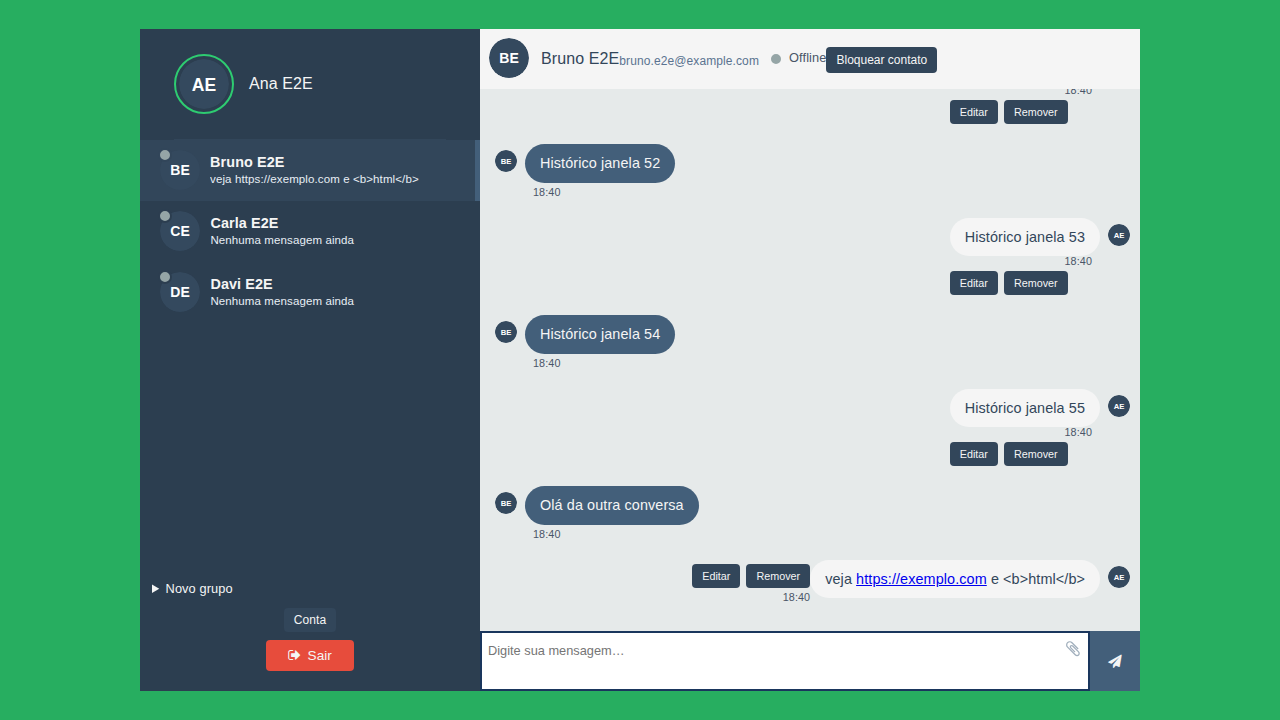
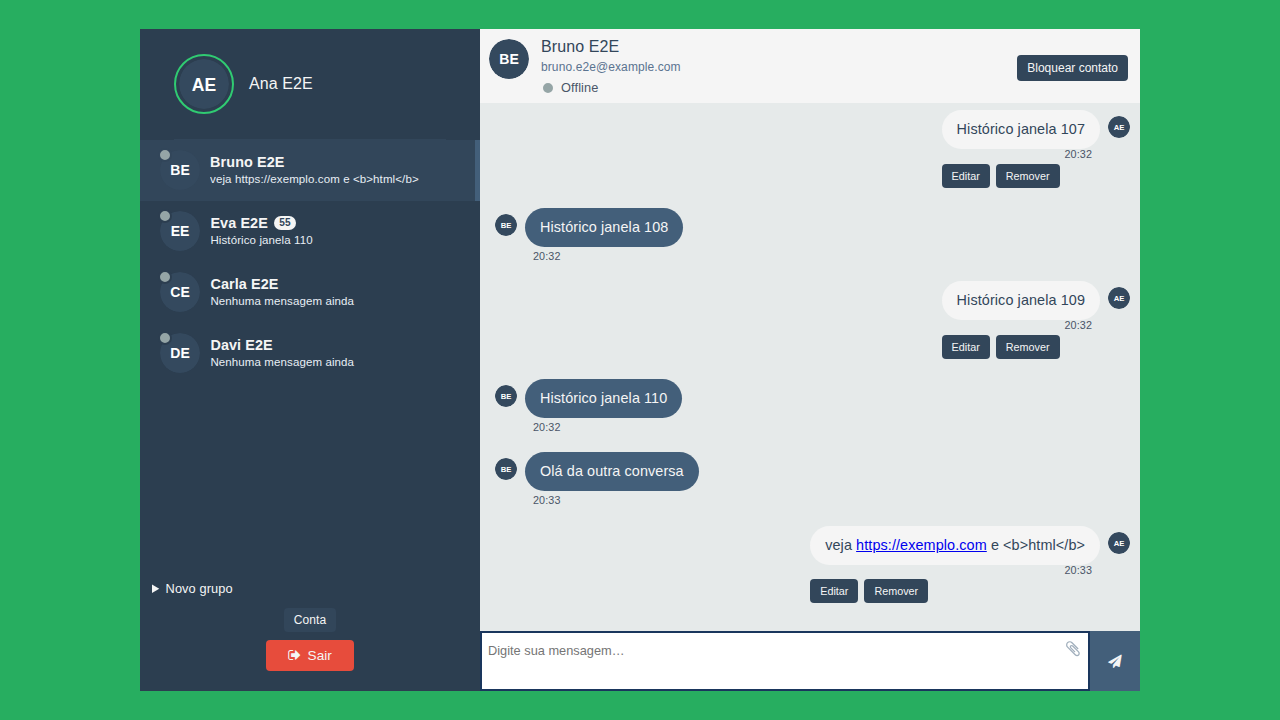
[Docs] Atualiza documentação e capturas do chat
- O README descreve a confirmação de remoção com e sem JavaScript e a paginação cronológica com o botão oculto.
- As capturas desta rodada incluem o histórico paginado, o layout das conversas e a página de confirmação de remoção.

diff --git a/README.md b/README.md
@@ -6,7 +6,7 @@ Aplicação Laravel de chat em tempo real. Há autenticação, conversas individ
 
 ### Nível 1
 
-- **N1-01 — Lista pela última atividade.** Cada item mostra nome e prévia da última mensagem (incluindo “Mensagem removida” e “Imagem”). O e-mail permanece no cabeçalho da conversa individual. A ordenação usa a data de **envio** (`created_at`), com desempate estável por ID; editar uma mensagem antiga não a promove. Contatos sem mensagens continuam na lista. A consulta de prévias e não lidas é agregada, sem N+1 por contato.
+- **N1-01 — Lista pela última atividade.** Cada item mostra nome e prévia da última mensagem (incluindo “Mensagem removida” e “Imagem”). O e-mail permanece no cabeçalho da conversa individual, em linha própria abaixo do nome. A ordenação usa a data de **envio** (`created_at`), com desempate estável por ID; editar uma mensagem antiga não a promove. Contatos sem mensagens continuam na lista. A consulta de prévias e não lidas é agregada, sem N+1 por contato.
 - **N1-02 — Atividade fora da conversa aberta.** Eventos no canal privado do usuário atualizam prévia e posição da lista mesmo com outra conversa aberta, inclusive envios próprios de outra aba. A conversa selecionada, o foco, o rascunho e o histórico atual são preservados. Mensagens recebidas são anunciadas uma vez. Após reconexão, a lista reconcilia por HTTP.
 - **N1-03 — Compositor multilinha.** `textarea` com altura limitada e rolagem. No desktop, Enter envia e Shift+Enter quebra linha. No teclado virtual (breakpoint 735px ou ponteiro grosso), Enter não envia — o envio é pelo botão. Composição IME não dispara envio. Limite de 1000 caracteres, rascunhos e preservação do texto em erro. Sem JavaScript, o POST/redirect pelo botão continua válido.
 - **N1-04 — URLs clicáveis.** Só `http://` e `https://` viram links (`target="_blank"` e `rel="noopener noreferrer"`). O restante do texto e os atributos são escapados. O mesmo critério vale no HTML inicial, no carregamento de mensagens anteriores e nos eventos ao vivo.
@@ -15,8 +15,8 @@ Aplicação Laravel de chat em tempo real. Há autenticação, conversas individ
 
 - **N2-01 — Não lidas persistidas.** Badge numérico por usuário e conversa. Contam só mensagens recebidas e não removidas. A leitura é um `POST /leituras` autenticado até o último ID apresentado, com aba visível; `GET` não altera o marcador. O marcador é monotônico. Vale para individuais e grupos.
 - **N2-02 — Indicador de digitação.** O backend publica quem está digitando, sem o rascunho. Frequência limitada (~2 s) e expiração (~3 s). O estado some ao enviar, trocar de conversa ou desconectar. **Não usamos whisper no canal individual:** esse canal só autoriza o próprio usuário. A digitação vai pelo mesmo canal privado de cada participante autorizado, mediada pelo servidor.
-- **N2-03 — Editar e remover mensagem própria.** Só o autor com acesso à conversa. Edição com limite de 1000 caracteres e indicação “Editada”. Remoção para todos, com registro e “Mensagem removida”. Mensagem removida não volta a ser editada. Autorização no servidor.
-- **N2-04 — Histórico em janelas.** Últimas 50 mensagens, ordem cronológica, “Carregar mensagens anteriores” com cursor estável. Reconciliação por `versao` da conversa/mensagem: recupera mensagens novas e também edições/exclusões. Evento antigo não substitui estado mais novo.
+- **N2-03 — Editar e remover mensagem própria.** Só o autor com acesso à conversa. Edição com limite de 1000 caracteres e indicação “Editada”. Remoção para todos. Com JavaScript, a confirmação nativa (“Esta mensagem será removida para os participantes da conversa.”) ocorre antes do `DELETE`. Sem JavaScript, o primeiro “Remover” abre uma página de confirmação (GET, sem alterar dados) que identifica a mensagem, explica a remoção para os participantes e oferece **Confirmar remoção** e **Cancelar**. Cancelar volta à conversa com a mensagem intacta. Confirmar envia o `DELETE` uma vez. Placeholder “Mensagem removida”. Mensagem removida não volta a ser editada. Autorização no servidor.
+- **N2-04 — Histórico em janelas.** Últimas 50 mensagens, ordem cronológica no servidor e no cliente (inclusive nos lotes anteriores). “Carregar mensagens anteriores” só aparece quando há página anterior; o atributo `hidden` é respeitado pelo CSS. Reconciliação por `versao` da conversa/mensagem: recupera mensagens novas e também edições/exclusões. Evento antigo não substitui estado mais novo.
 
 ### Nível 3
 
@@ -30,7 +30,7 @@ Aplicação Laravel de chat em tempo real. Há autenticação, conversas individ
 
 **Digitação.** Evento `participante.digitando` publicado pelo backend nos canais privados dos outros participantes autorizados. Isolamento do canal individual preservado. Não depende de client events do Pusher.
 
-**Exclusão.** Soft-delete (`removida_em`). A prévia e as não lidas tratam a mensagem como removida. O arquivo físico é apagado depois da confirmação no banco; falha de limpeza só é registrada em log.
+**Exclusão.** Soft-delete (`removida_em`). Com JavaScript, `confirm` nativo antes do `DELETE`. Sem JavaScript, GET `/mensagens/{id}/confirmacao-remocao` (autorizado, sem mutação) e o `DELETE` só no “Confirmar remoção”. A prévia e as não lidas tratam a mensagem como removida. O arquivo físico é apagado depois da confirmação no banco; falha de limpeza só é registrada em log.
 
 **Grupos.** Mesmo modelo de `conversas` (tipo `individual` ou `grupo`). Mensagens antigas 1:1 foram migradas para `conversa_id` sem trocar IDs, autoria, conteúdo nem datas. Eventos de grupo não usam um canal compartilhado cuja autorização vale só na assinatura: a lista de destinos é resolvida na hora do envio.
 
@@ -58,6 +58,8 @@ Dados fictícios da suíte e2e (Ana/Bruno/Carla/Davi).
 
 ![Editar e remover](docs/screenshots/editar-remover.png)
 
+![Confirmação de remoção sem JavaScript](docs/screenshots/confirmacao-remocao.png)
+
 ![Grupo](docs/screenshots/grupo.png)
 
 ![Anexo](docs/screenshots/anexo.png)
@@ -78,8 +80,8 @@ Dados fictícios da suíte e2e (Ana/Bruno/Carla/Davi).
 | N1-04 | `FormatadorMensagem` + JS equivalente | PHPUnit unitário e HTML; Playwright links | — |
 | N2-01 | `POST /leituras`, badge, monotônico, grupos | PHPUnit GET sem mutar + marcador monotônico; Playwright aba oculta simulada + aba visível | `document.visibilityState=hidden` é simulação no Chromium, não janela minimizada do SO |
 | N2-02 | `POST /digitacao` + evento backend | PHPUnit canais/bloqueio; Playwright indicador, expiração ~3 s, limpeza ao enviar e ao trocar | — |
-| N2-03 | PATCH/DELETE autorizados | PHPUnit autor/terceiro; Playwright editar/remover | — |
-| N2-04 | Janela 50 + `antes_id` + `versao` | PHPUnit 55 mensagens; Playwright carregar anteriores + reconciliação HTTP após disconnect (edição e exclusão sem reload) | — |
+| N2-03 | PATCH/DELETE autorizados; `confirm` no cliente; GET de confirmação sem JS | PHPUnit autor/terceiro/GET sem mutação; Playwright com e sem JS (cancelar e confirmar) | — |
+| N2-04 | Janela 50 + `antes_id` + ordem cronológica no cliente; botão `hidden` respeitado | PHPUnit 110 mensagens (dois lotes); Playwright sequência visível, dois lotes, botão oculto na home/vazio/fim | — |
 | N3-01 | Grupos; publicação só aos membros atuais | PHPUnit 3+1; Playwright membro já conectado não recebe a próxima mensagem; HTTP 4xx | — |
 | N3-02 | Disco privado + rota autenticada | PHPUnit válido/inválido/limite/terceiro; Playwright prévia e exibição | — |
 | N3-03 | Bloqueio nos dois sentidos; canal do usuário permanece | PHPUnit; Playwright recusa 4xx no 1:1 e mensagem de outro contato ao vivo | — |
